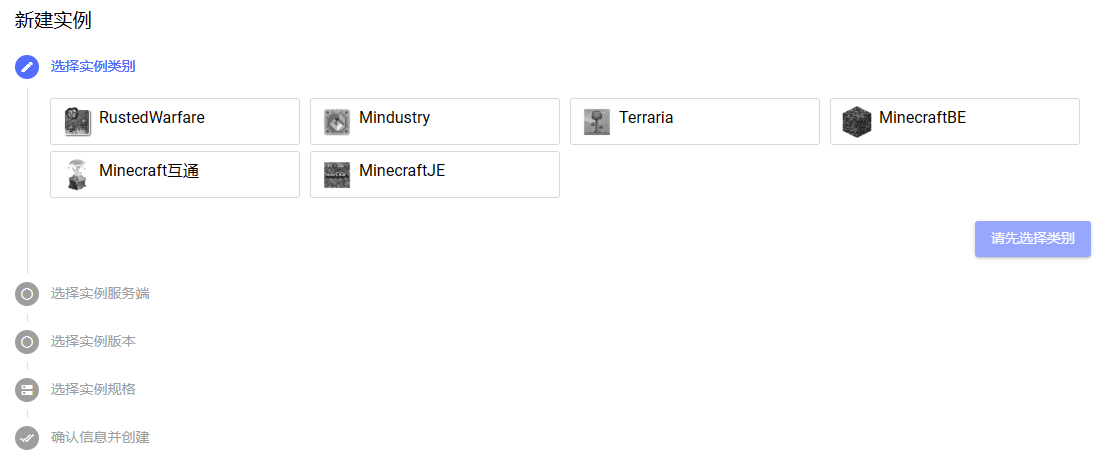
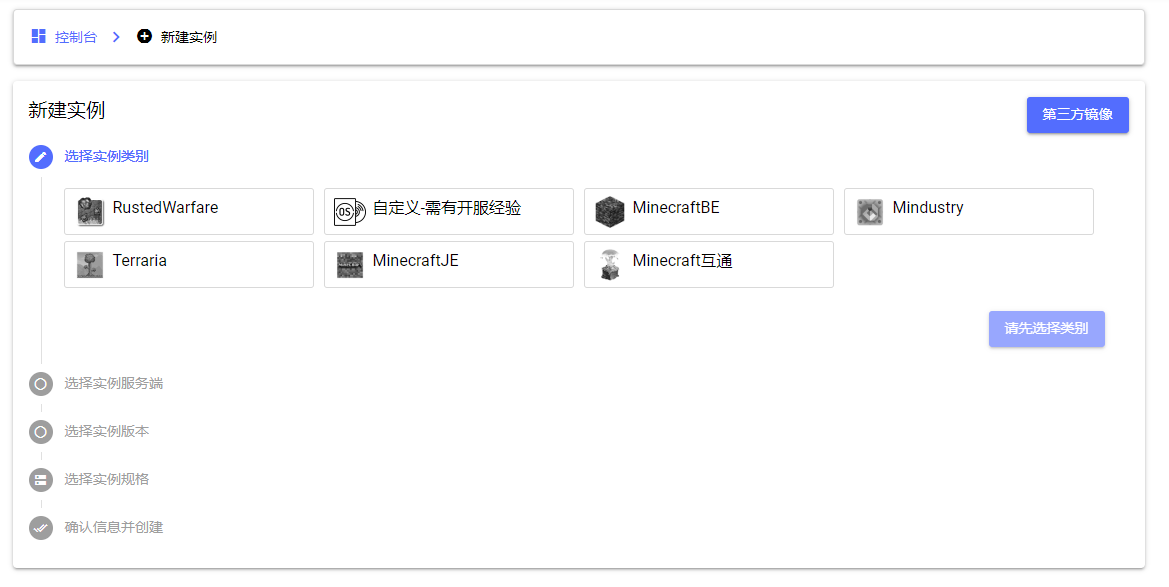
更新了零零碎碎的小细节~

diff --git a/docs/9-commonsense.md b/docs/9-commonsense.md
@@ -6,6 +6,18 @@ title: 【服务器运维】服务器基本常识
 
 本文档介绍开服应该有的最基本的常识和需要用到的电脑常识，建议先阅览一遍本文档后再阅读其他文档和向其他人询问，可以便于理解。
 
+## 常用术语
+- #### 实例：
+  实例的概念较为宽泛。在简幻欢中，一般指服务器。
+- #### 服务器IP：
+  客户端访问您服务器的地址，不同类型的游戏填写方式不一样。如MC Java版的访问服务器的方式为 `play.simpfun.cn:端口号` ,而MC基岩版则需要将 `服务器IP` 和 `端口号`分别填入对应的位置。
+- #### 端口号：
+  在简幻欢中，端口为逻辑端口，你可以理解为客户端访问服务端所对应的“门”（只有你找对了“门”才能进去正确的服务器！）
+- #### （Minecraft Java）服务端核心
+  一般指服务器的核心启动程序，它们一般是一个 `.jar后缀的文件` 。
+- #### TPS
+   指每秒传输的事物处理个数，即服务器每秒处理的事务数。TPS越高，每秒处理事务能力越强，服务器越流畅。在MC中，TPS最高为20，在TPS小于18时，会有明显的 `卡顿` , `回弹` , `无法操作` 等糟糕的体验。
+
 ## “服务器”是什么？
 
 **通常来讲，我的世界、泰拉瑞亚、铁锈战争等想要实现云服联机，所需的“服务器”分为两个部分：硬件和软件。**

diff --git a/docs/1-register.md b/docs/1-register.md
@@ -44,6 +44,6 @@ title: 【账号管理】如何注册
 
 <img src="/img/pages/Register-2.png" width="50%" />
 
-1. 注册后进入微信小程序`简幻欢`，**准确无误地**输入您的**简幻欢账号**，然后**支付一元**即可绑定微信。绑定后，您就可以使用简幻欢的服务了。  
+1. 注册后进入微信小程序`简幻欢`，**准确无误地**输入您的**简幻欢账号**，然后**支付一元**即可绑定微信。绑定后，每日从小程序签到即可免费长期使用4h8g的服务器！[如何签到？](./7-signin.md)  
 
 <img src="/img/pages/Register-3.png" width="50%" />

diff --git a/docs/7-signin.md b/docs/7-signin.md
@@ -12,7 +12,7 @@ title: 【账号管理】如何签到
 
 :::caution
 
-您的积分若超过一定数值，将会无法签到，具体请查看`签到上限积分`
+您的积分若超过一定数值，将会无法签到。（当前该上限为400，即积分超过400时候，无法签到；该上限随时可能发生变动，请以官方为准。）
 
 :::
 

diff --git a/docs/10-createserver.md b/docs/10-createserver.md
@@ -31,9 +31,15 @@ MinecraftJE：Minecraft Java版
 
 :::
 
+:::info
+
+您可以点击下图右上角的的第三方镜像，获取由第三方开发者提供的实例！
+
+:::
+
 ![3](/img/pages/CreateServer-3.png)
 
-4. 选择`实例服务端`
+1. 选择`实例服务端`
 
 :::caution
 
